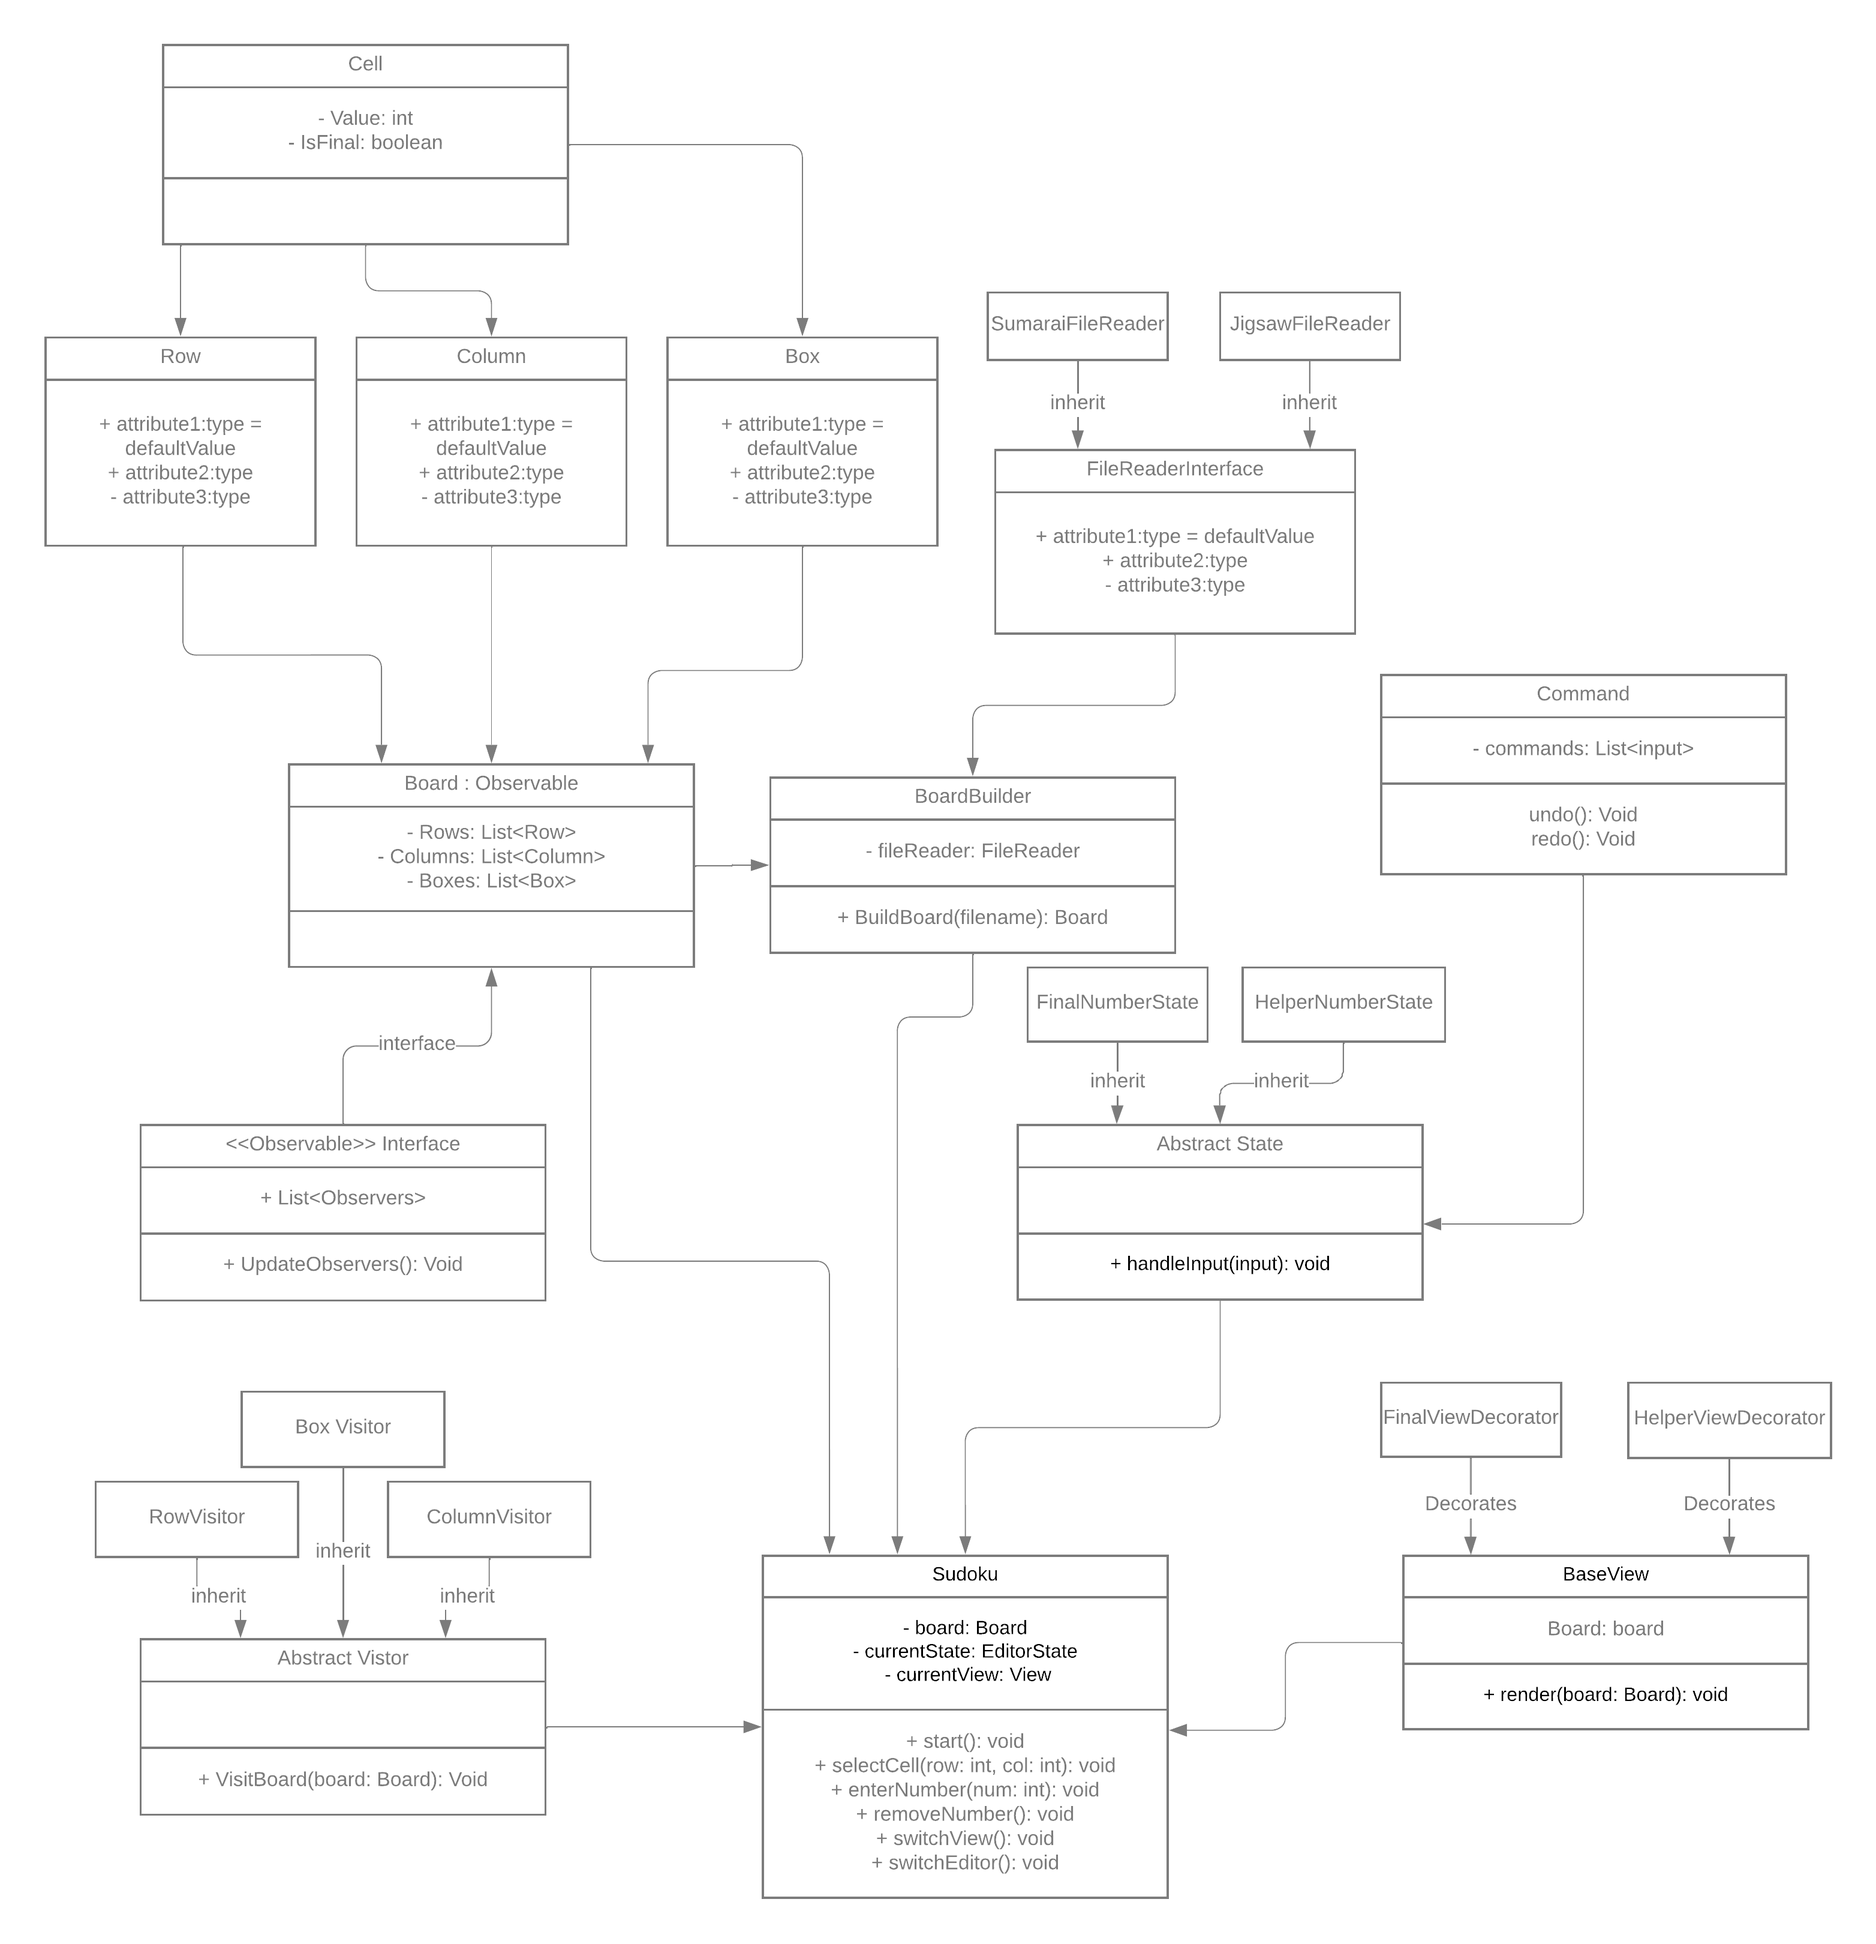
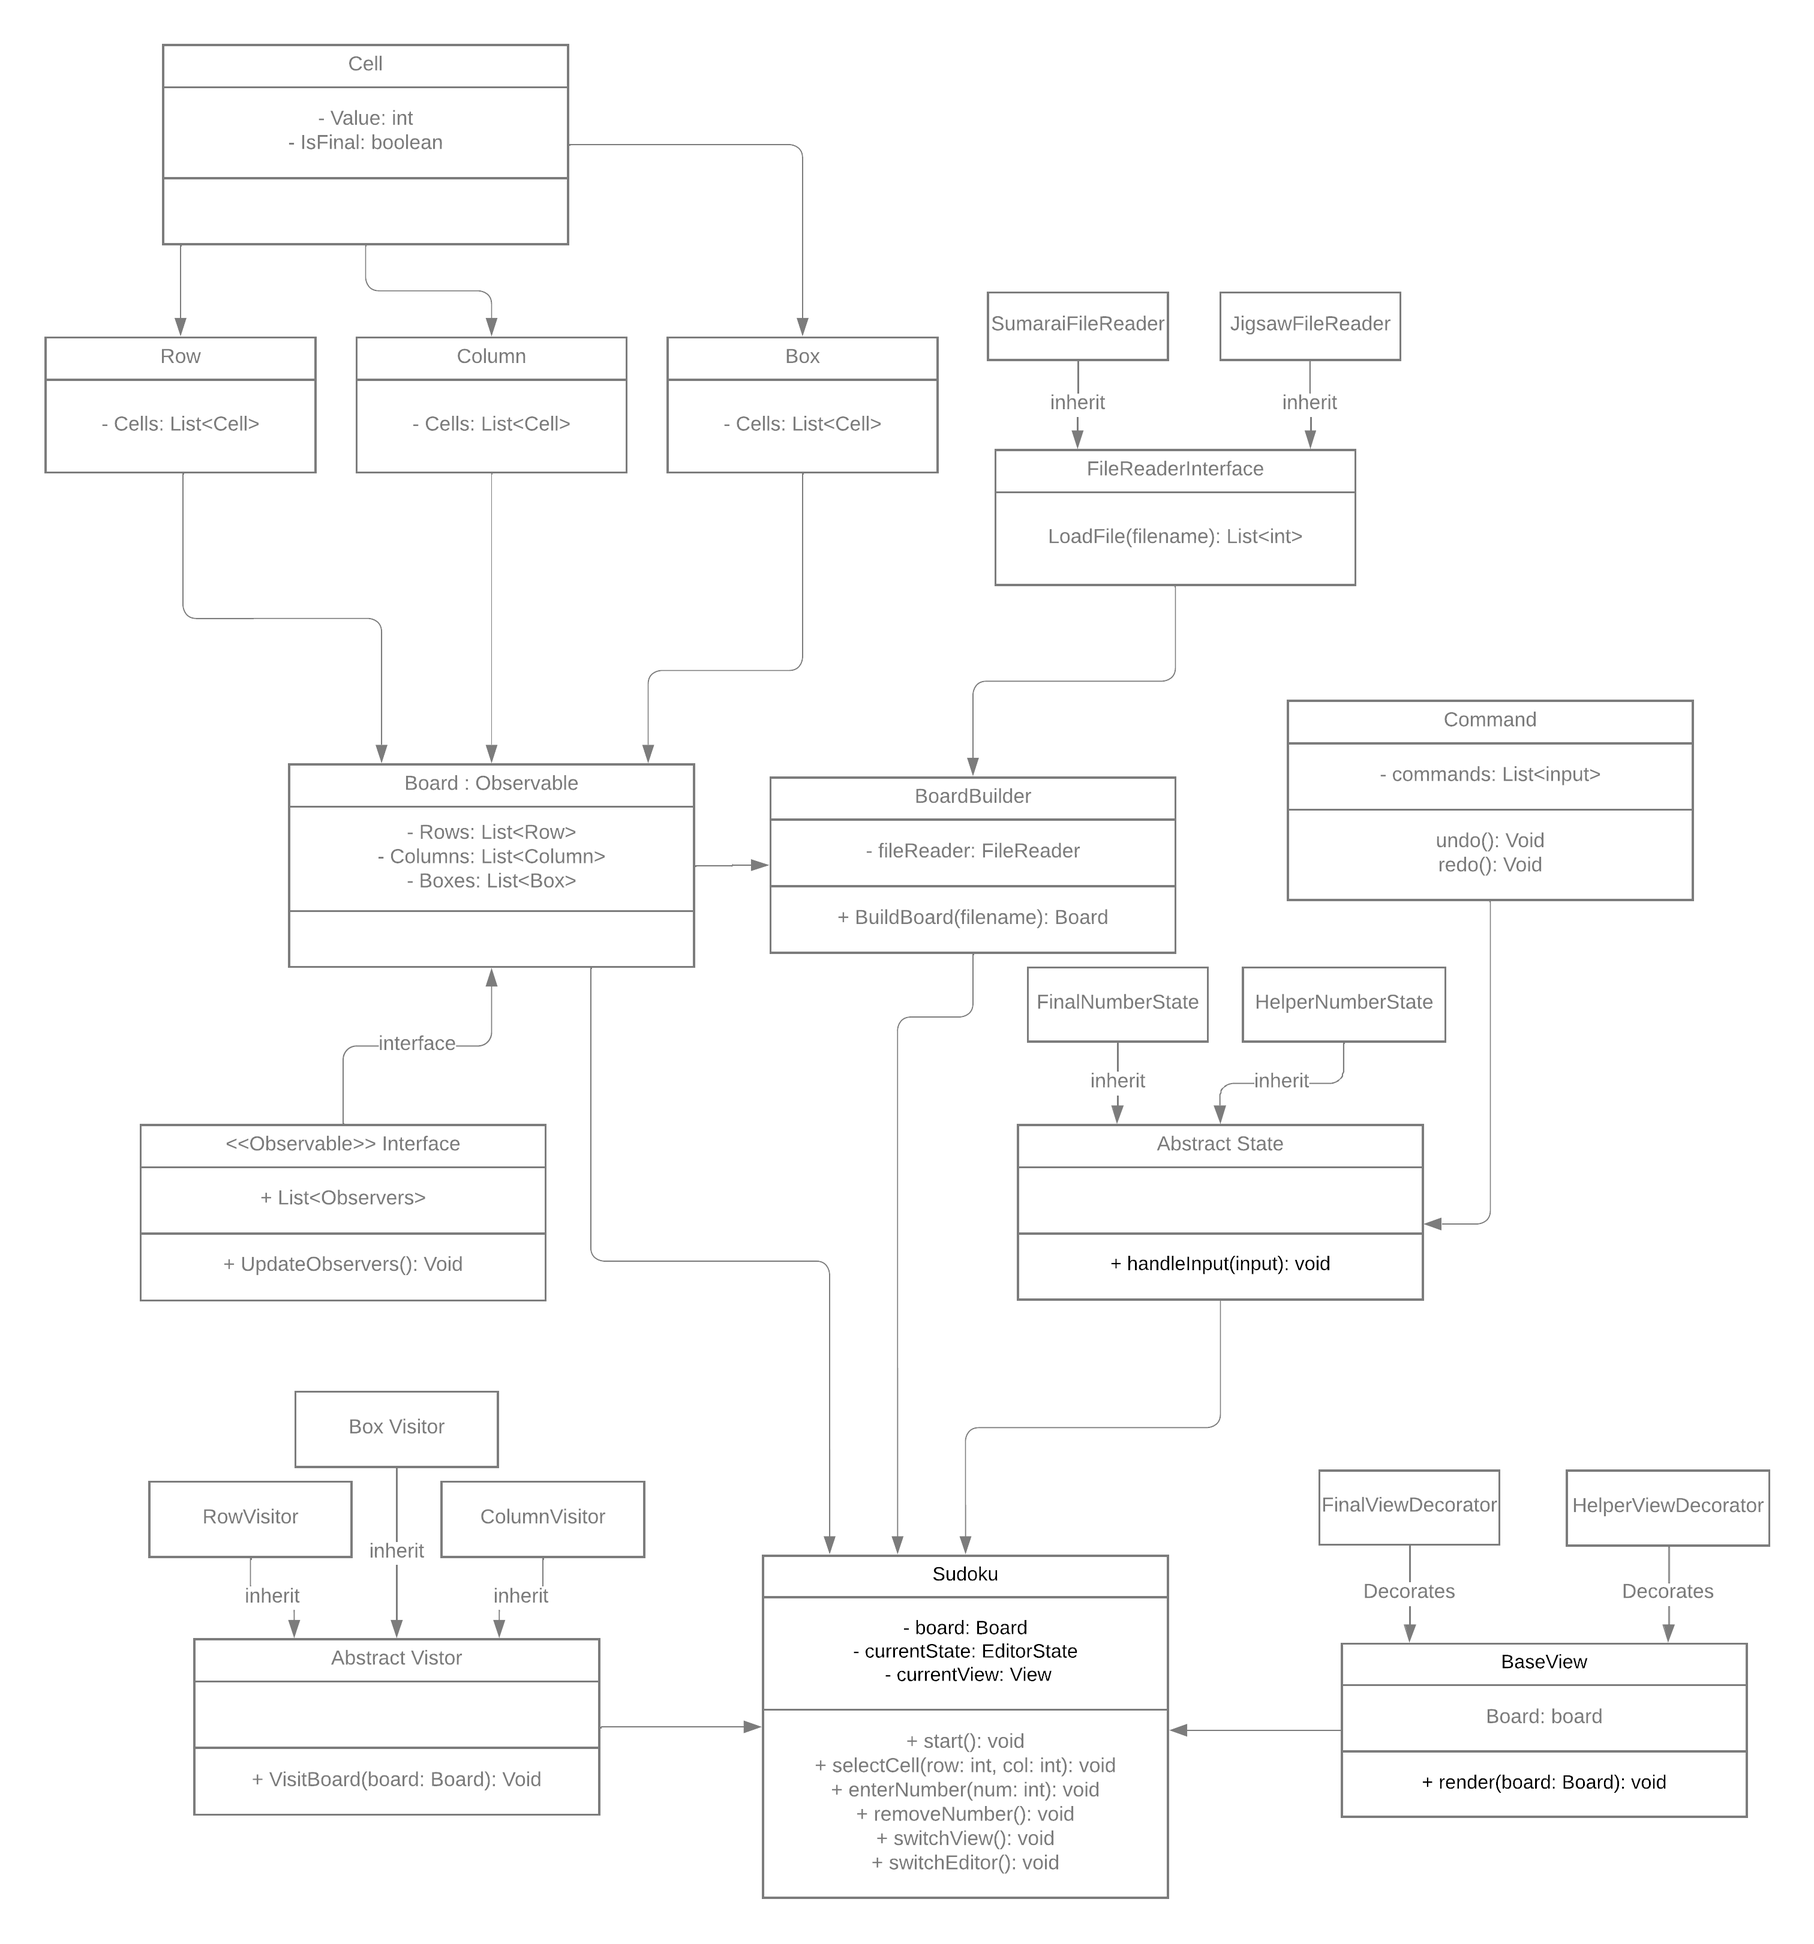
Simply drawing

diff --git a/view/BaseView.java b/view/BaseView.java
@@ -3,23 +3,54 @@ package view;
 import java.awt.Color;
 import java.awt.Dimension;
 import java.awt.Graphics;
+import java.util.ArrayList;
 
 import javax.swing.JPanel;
+
+import board.Board;
+import board.Cell;
+import board.CellHolder;
 
 public class BaseView extends JPanel {
 
 	private static final long serialVersionUID = 1L;
 		
-	public final static int WIDTH = 800;
-	public final static int HEIGHT = 800;
+	public final static int WIDTH = 900;
+	public final static int HEIGHT = 910;
+    public final static int RECTSIZE = 90;
+    public final static int SPACING = 10;
+    public final static int FONTTSIZE = 50;
+    public final static int FONTSPACING = 70;
+
+    private Board board;
 	
-	public BaseView() {
-       
+	public BaseView(Board board) {
+       this.board = board;
 	}
 	
 	public void paintComponent(Graphics g) {
 		super.paintComponent(g);
 		this.setBackground(new Color(39, 43, 48));
+        ArrayList<CellHolder> rows = this.board.getRows();
+        for (int y = 0; y < rows.size(); y++) {
+            ArrayList<Cell> cells = this.board.getRows().get(y).getCells();
+            for (int x = 0; x < cells.size(); x++) {
+
+                int xpos = x * RECTSIZE + SPACING * x;
+                int ypos = SPACING + y * + RECTSIZE + SPACING * y;
+
+                g.setColor(Color.BLACK);
+                g.fillRect(
+                    xpos, 
+                    ypos, 
+                    RECTSIZE, 
+                    RECTSIZE);
+
+                g.setFont(g.getFont().deriveFont(((float)FONTTSIZE)));
+                g.setColor(Color.WHITE);
+                g.drawString(Integer.toString(cells.get(x).getValue()), xpos + FONTSPACING/2, ypos + FONTSPACING);
+            }
+        }
 	}
 	
 	public Dimension getPreferredSize() {

diff --git a/board/Board.java b/board/Board.java
@@ -1,8 +1,41 @@
 package board;
 
-public class Board {
+import java.util.ArrayList;
 
-    public void draw() {
+public class Board {
+    private ArrayList<CellHolder> rows = new ArrayList<CellHolder>();
+    private ArrayList<CellHolder> columns = new ArrayList<CellHolder>();
+    private ArrayList<CellHolder> box = new ArrayList<CellHolder>();
+
+    private int width = 0;
+    private int height = 0;
+
+    public Board(int width, int height) {
+        this.width = width;
+        this.height = height;
+
+        for (int i = 0; i < height; i++) {
+            CellHolder row = new CellHolder();
+            rows.add(row);
+            
+            for (int j = 0; j < width; j++) {
+                Cell cell = new Cell(0, false);
+                row.addCell(cell);
+
+                
+                if (columns.size() <= j) {
+                    CellHolder newColumn = new CellHolder();
+                    columns.add(newColumn);
+                }
+                
+                // Add the cell to the column
+                CellHolder currentColumn = columns.get(j);
+                currentColumn.addCell(cell);
+            }
+        }
     }
-    
+
+    public ArrayList<CellHolder> getRows() {
+        return rows;
+    }
 }

diff --git a/view/GameFrame.java b/view/GameFrame.java
@@ -1,16 +1,21 @@
 package view;
 import javax.swing.JFrame;
+import javax.swing.JPanel;
+
 import java.awt.event.KeyAdapter;
 import java.awt.event.KeyEvent;
 
 public class GameFrame extends JFrame {
 
 	private static final long serialVersionUID = 1L;
-	private BaseView baseView = new BaseView();
+    JPanel view;
 
-	public GameFrame() {
+	public GameFrame(JPanel view) {
+        super("Sudoku Board");
+
+        this.view = view;
 		this.setDefaultCloseOperation(JFrame.EXIT_ON_CLOSE);
-		this.getContentPane().add(baseView);
+		this.getContentPane().add(view);
 		this.setResizable(false);
 		this.pack();
 		this.setVisible(true);
@@ -26,7 +31,7 @@ public class GameFrame extends JFrame {
 	
 	public void setActiveView(){
 		this.getContentPane().removeAll();
-		this.getContentPane().add(baseView);
+		this.getContentPane().add(this.view);
 		this.pack();
 		this.setVisible(true);
 		this.repaint();		

diff --git a/engine/Soduko.java b/engine/Soduko.java
@@ -7,6 +7,7 @@ import java.awt.event.ActionListener;
 
 import board.Board;
 import board.BoardFactory;
+import view.BaseView;
 import view.GameFrame;
 
 public class Soduko {
@@ -14,7 +15,8 @@ public class Soduko {
     int currentState = 1;
     int currentView = 1;
     boolean gameLoop = true;
-    GameFrame window = new GameFrame();
+    GameFrame window;
+    BaseView baseView;
 
     private int DRAW_DELAY = 1000 / 60;
 	private Timer drawTimer;
@@ -22,13 +24,10 @@ public class Soduko {
     public Soduko() {
         BoardFactory boardFactory = new BoardFactory();
         this.board = boardFactory.createBoard();
+        this.baseView = new BaseView(this.board);
+        this.window = new GameFrame(this.baseView);
 
-        this.setWindow();
         this.start();
-    }
-
-    private void setWindow() {
-  
     }
 
     public void start() {

diff --git a/board/Cell.java b/board/Cell.java
@@ -1,5 +1,27 @@
 package board;
 
 public class Cell {
-    
+    private int value = 0;
+    private boolean isFinal = false;
+
+    public Cell(int value, boolean isFinal) {
+        this.value = value;
+        this.isFinal = isFinal;
+    }
+
+    public int getValue() {
+        return value;
+    }
+
+    public void setValue(int value) {
+        this.value = value;
+    }
+
+    public boolean isFinal() {
+        return isFinal;
+    }
+
+    public void setFinal() {
+        this.isFinal = true;
+    }
 }

diff --git a/board/CellHolder.java b/board/CellHolder.java
@@ -1,0 +1,21 @@
+package board;
+
+import java.util.ArrayList;
+
+public class CellHolder {
+    ArrayList<Cell> cells = new ArrayList<Cell>();
+    
+
+    public Cell getCell(int i) {
+        return cells.get(i);
+    }
+
+    public void addCell(Cell cell) {
+        cells.add(cell);
+    }
+
+    public ArrayList<Cell> getCells() {
+        return cells;
+    }
+}
+

diff --git a/board/BoardFactory.java b/board/BoardFactory.java
@@ -2,6 +2,6 @@ package board;
 
 public class BoardFactory {
     public Board createBoard() {
-        return new Board();
+        return new Board(9, 9);
     }
 }
